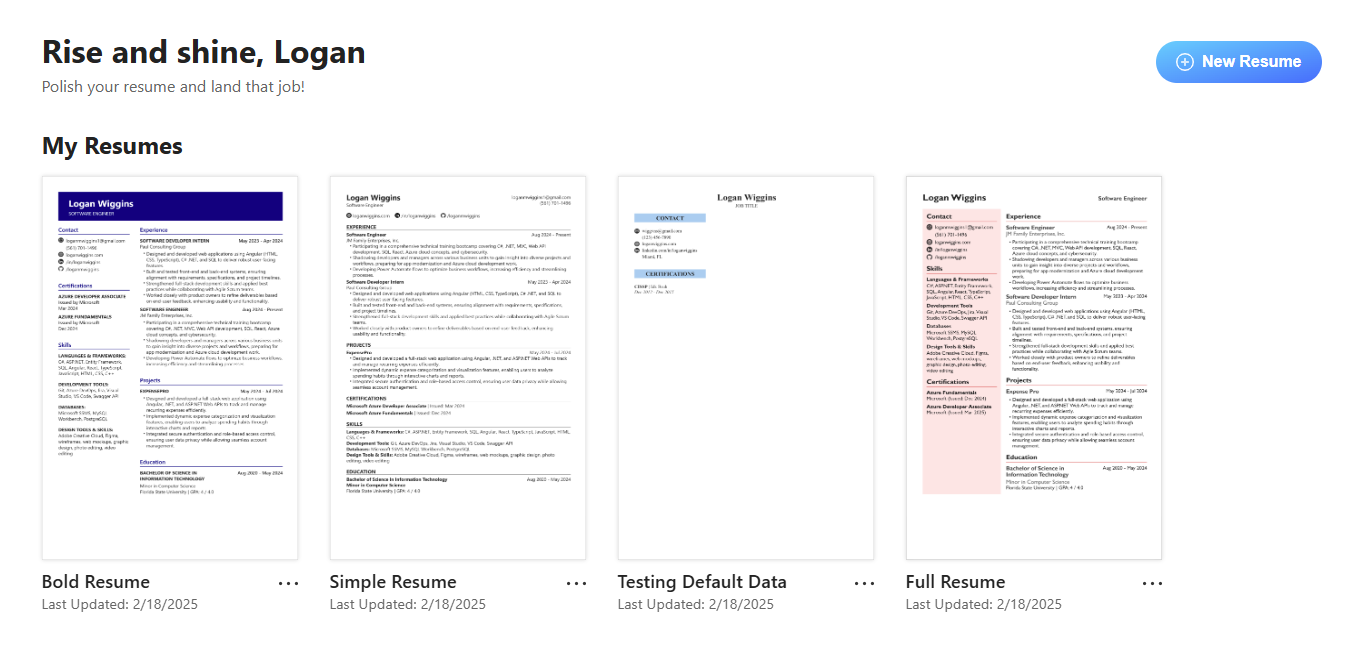
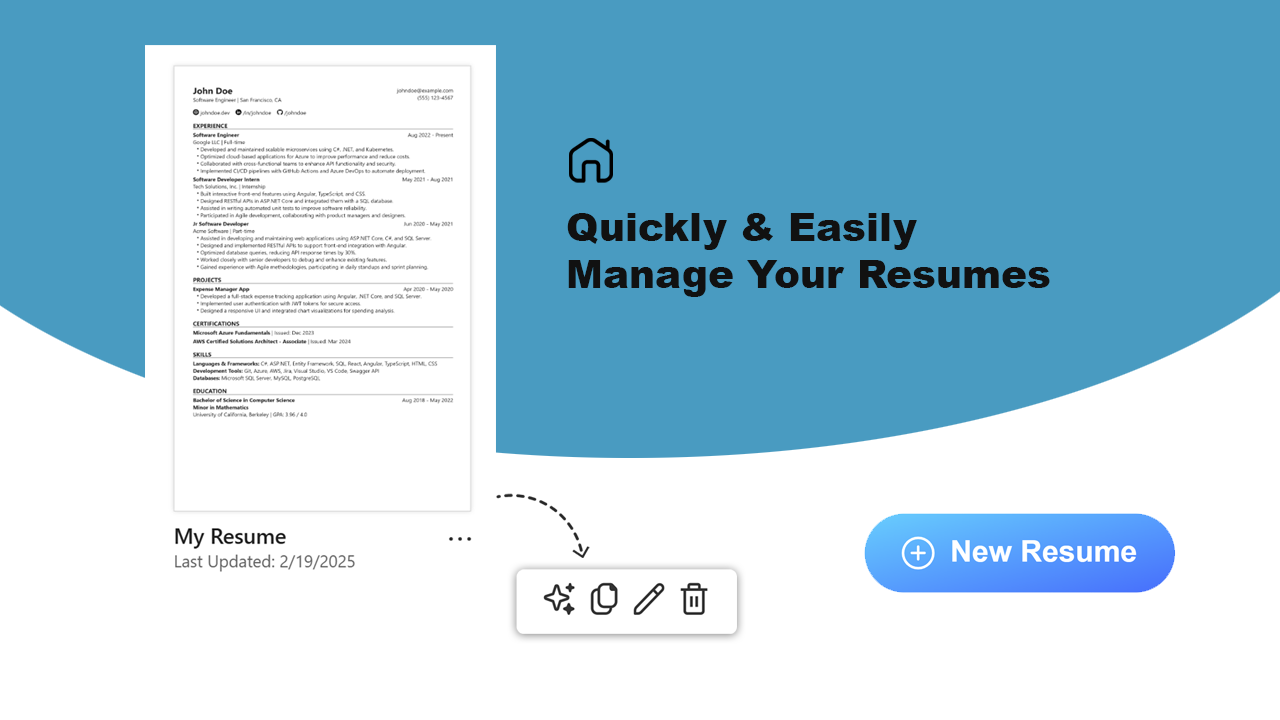
updates to help walkthrough

diff --git a/ResumeProProject/resumeproproject.client/src/pages/Help.jsx b/ResumeProProject/resumeproproject.client/src/pages/Help.jsx
@@ -22,8 +22,8 @@ function Help() {
             description: "The Home page is your hub for all things resumes. Create, edit, and manage your existing resumes with ease.",
             images: [
                 // "/assets/images/help/home-1.png",
-                // "/assets/images/help/home-2.png",
-                "/assets/images/help/home-3.png",
+                "/assets/images/help/home-2.png",
+                // "/assets/images/help/home-3.png",
             ]
         },
         {

diff --git a/ResumeProProject/resumeproproject.client/src/utils/TemplateList.jsx b/ResumeProProject/resumeproproject.client/src/utils/TemplateList.jsx
@@ -11,7 +11,7 @@ export const templates = [
         id: "minimal", 
         name: "Minimal", 
         tagline: "Clean, classic, and effortlessly professional",
-        imgPath: "/assets/template-thumbnails/minimal-thumbnail.png",
+        imgPath: "/assets/template-thumbnails/Thumbnail_Minimal.png",
         component: Template_Minimal 
     },
     // Bold Navy
